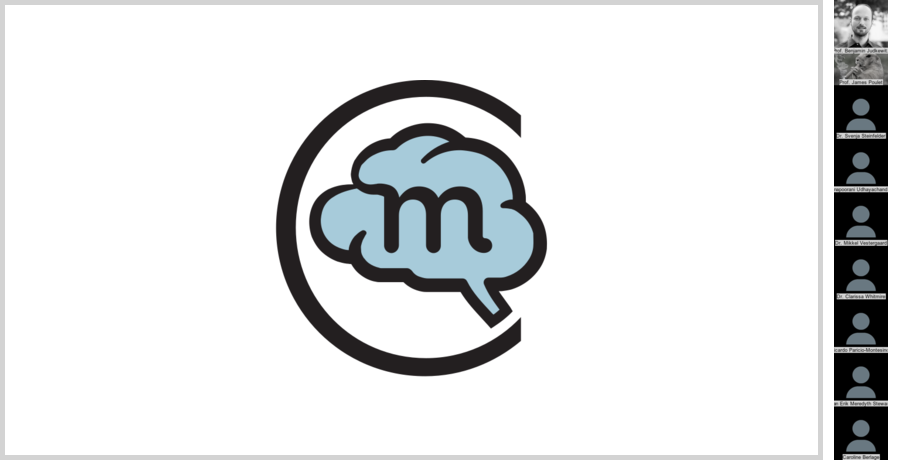
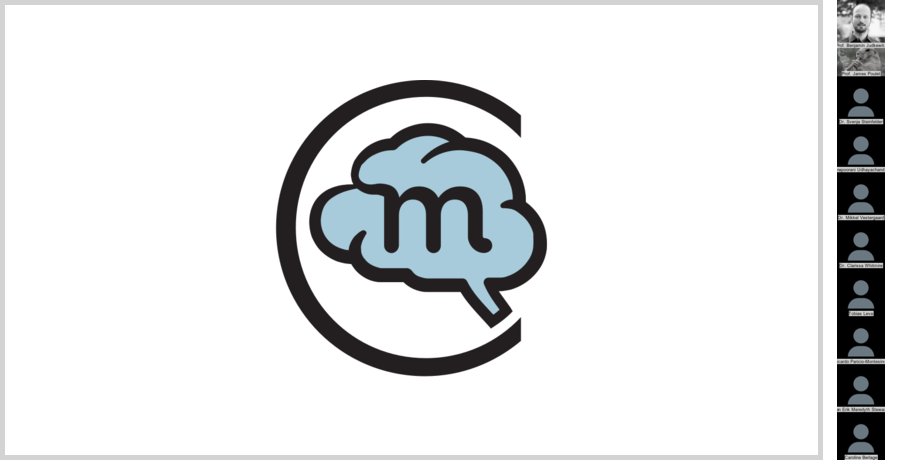
update people

Changed region(s): [[0.9022, 0.0, 0.9956, 1.0]]

diff --git a/content/authors/sfb-tobiasleva/_index.md b/content/authors/sfb-tobiasleva/_index.md
@@ -1,16 +1,16 @@
 ---
 # Display name
-name: Ian Erik Meredyth Stewart
+name: Tobias Leva
 
 # Username (this should match the folder name)
 authors:
-- sfb-ianerikstewart
+- sfb-tobiasleva
 
 # Is this the primary user of the site?
 superuser: false
 
 # Role/position
-role: Associated PhD student
+role: PhD student
 
 # Organizations/Affiliations
 organizations:
@@ -18,7 +18,7 @@ organizations:
   url: ""
 
 # Short bio (displayed in user profile at end of posts)
-bio: "PhD student in project A05"
+bio: ""
 
 # Social/Academic Networking
 # For available icons, see: https://sourcethemes.com/academic/docs/widgets/#icons
@@ -27,10 +27,7 @@ bio: "PhD student in project A05"
 social:
 - icon: globe 
   icon_pack: fas 
-  link: https://www.mdc-berlin.de/poulet
-- icon: orcid 
-  icon_pack: ai 
-  link: https://orcid.org/0000-0001-5307-1564
+  link: 
 # - icon: envelope
 #   icon_pack: fas
 #   link: '#contact'  # For a direct email link, use "mailto:julien.colomb@fu-berlin.de".
@@ -59,7 +56,7 @@ social:
 # Organizational groups that you belong to (for People widget)
 #   Set this to `[]` or comment out if you are not using People widget.  
 user_groups:
- - Associated PhD student
+ - PhD student
 ---
 
 

diff --git a/content/project/A05/index.md b/content/project/A05/index.md
@@ -3,7 +3,7 @@
 
 title: "A05: Target-specific synaptic and network mechanisms of memory consolidation"
 summary: ""
-authors: ["sfb-benjaminjudkewitz","sfb-jamespoulet","sfb-svenjasteinfelder","sfb-annapooraniudhayachandran","sfb-mikkelvestergaard","sfb-clarissawhitmire","sfb-Ricardoparicio","sfb-ianerikstewart","sfb-carolineberlage"]
+authors: ["sfb-benjaminjudkewitz","sfb-jamespoulet","sfb-svenjasteinfelder","sfb-annapooraniudhayachandran","sfb-mikkelvestergaard","sfb-clarissawhitmire","sfb-tobiasleva","sfb-Ricardoparicio","sfb-ianerikstewart","sfb-carolineberlage"]
 tags: []
 categories: []
 date: 2019-12-16T10:31:52+01:00

diff --git a/content/authors/sfb-christophmetzner/_index.md b/content/authors/sfb-christophmetzner/_index.md
@@ -10,7 +10,7 @@ authors:
 superuser: false
 
 # Role/position
-role: Network Coord
+role: Network Coordinator
 
 # Organizations/Affiliations
 organizations:
@@ -56,7 +56,7 @@ social:
 # Organizational groups that you belong to (for People widget)
 #   Set this to `[]` or comment out if you are not using People widget.  
 user_groups:
- - Network Coord
+ - Network Coordinator
 ---
 
 

diff --git a/content/authors/sfb-lisavelenosi/_index.md b/content/authors/sfb-lisavelenosi/_index.md
@@ -10,7 +10,7 @@ authors:
 superuser: false
 
 # Role/position
-role: Network Coord
+role: Network Coordinator
 
 # Organizations/Affiliations
 organizations:
@@ -56,7 +56,7 @@ social:
 # Organizational groups that you belong to (for People widget)
 #   Set this to `[]` or comment out if you are not using People widget.  
 user_groups:
- - Network Coord
+ - Network Coordinator
 ---
 
 
